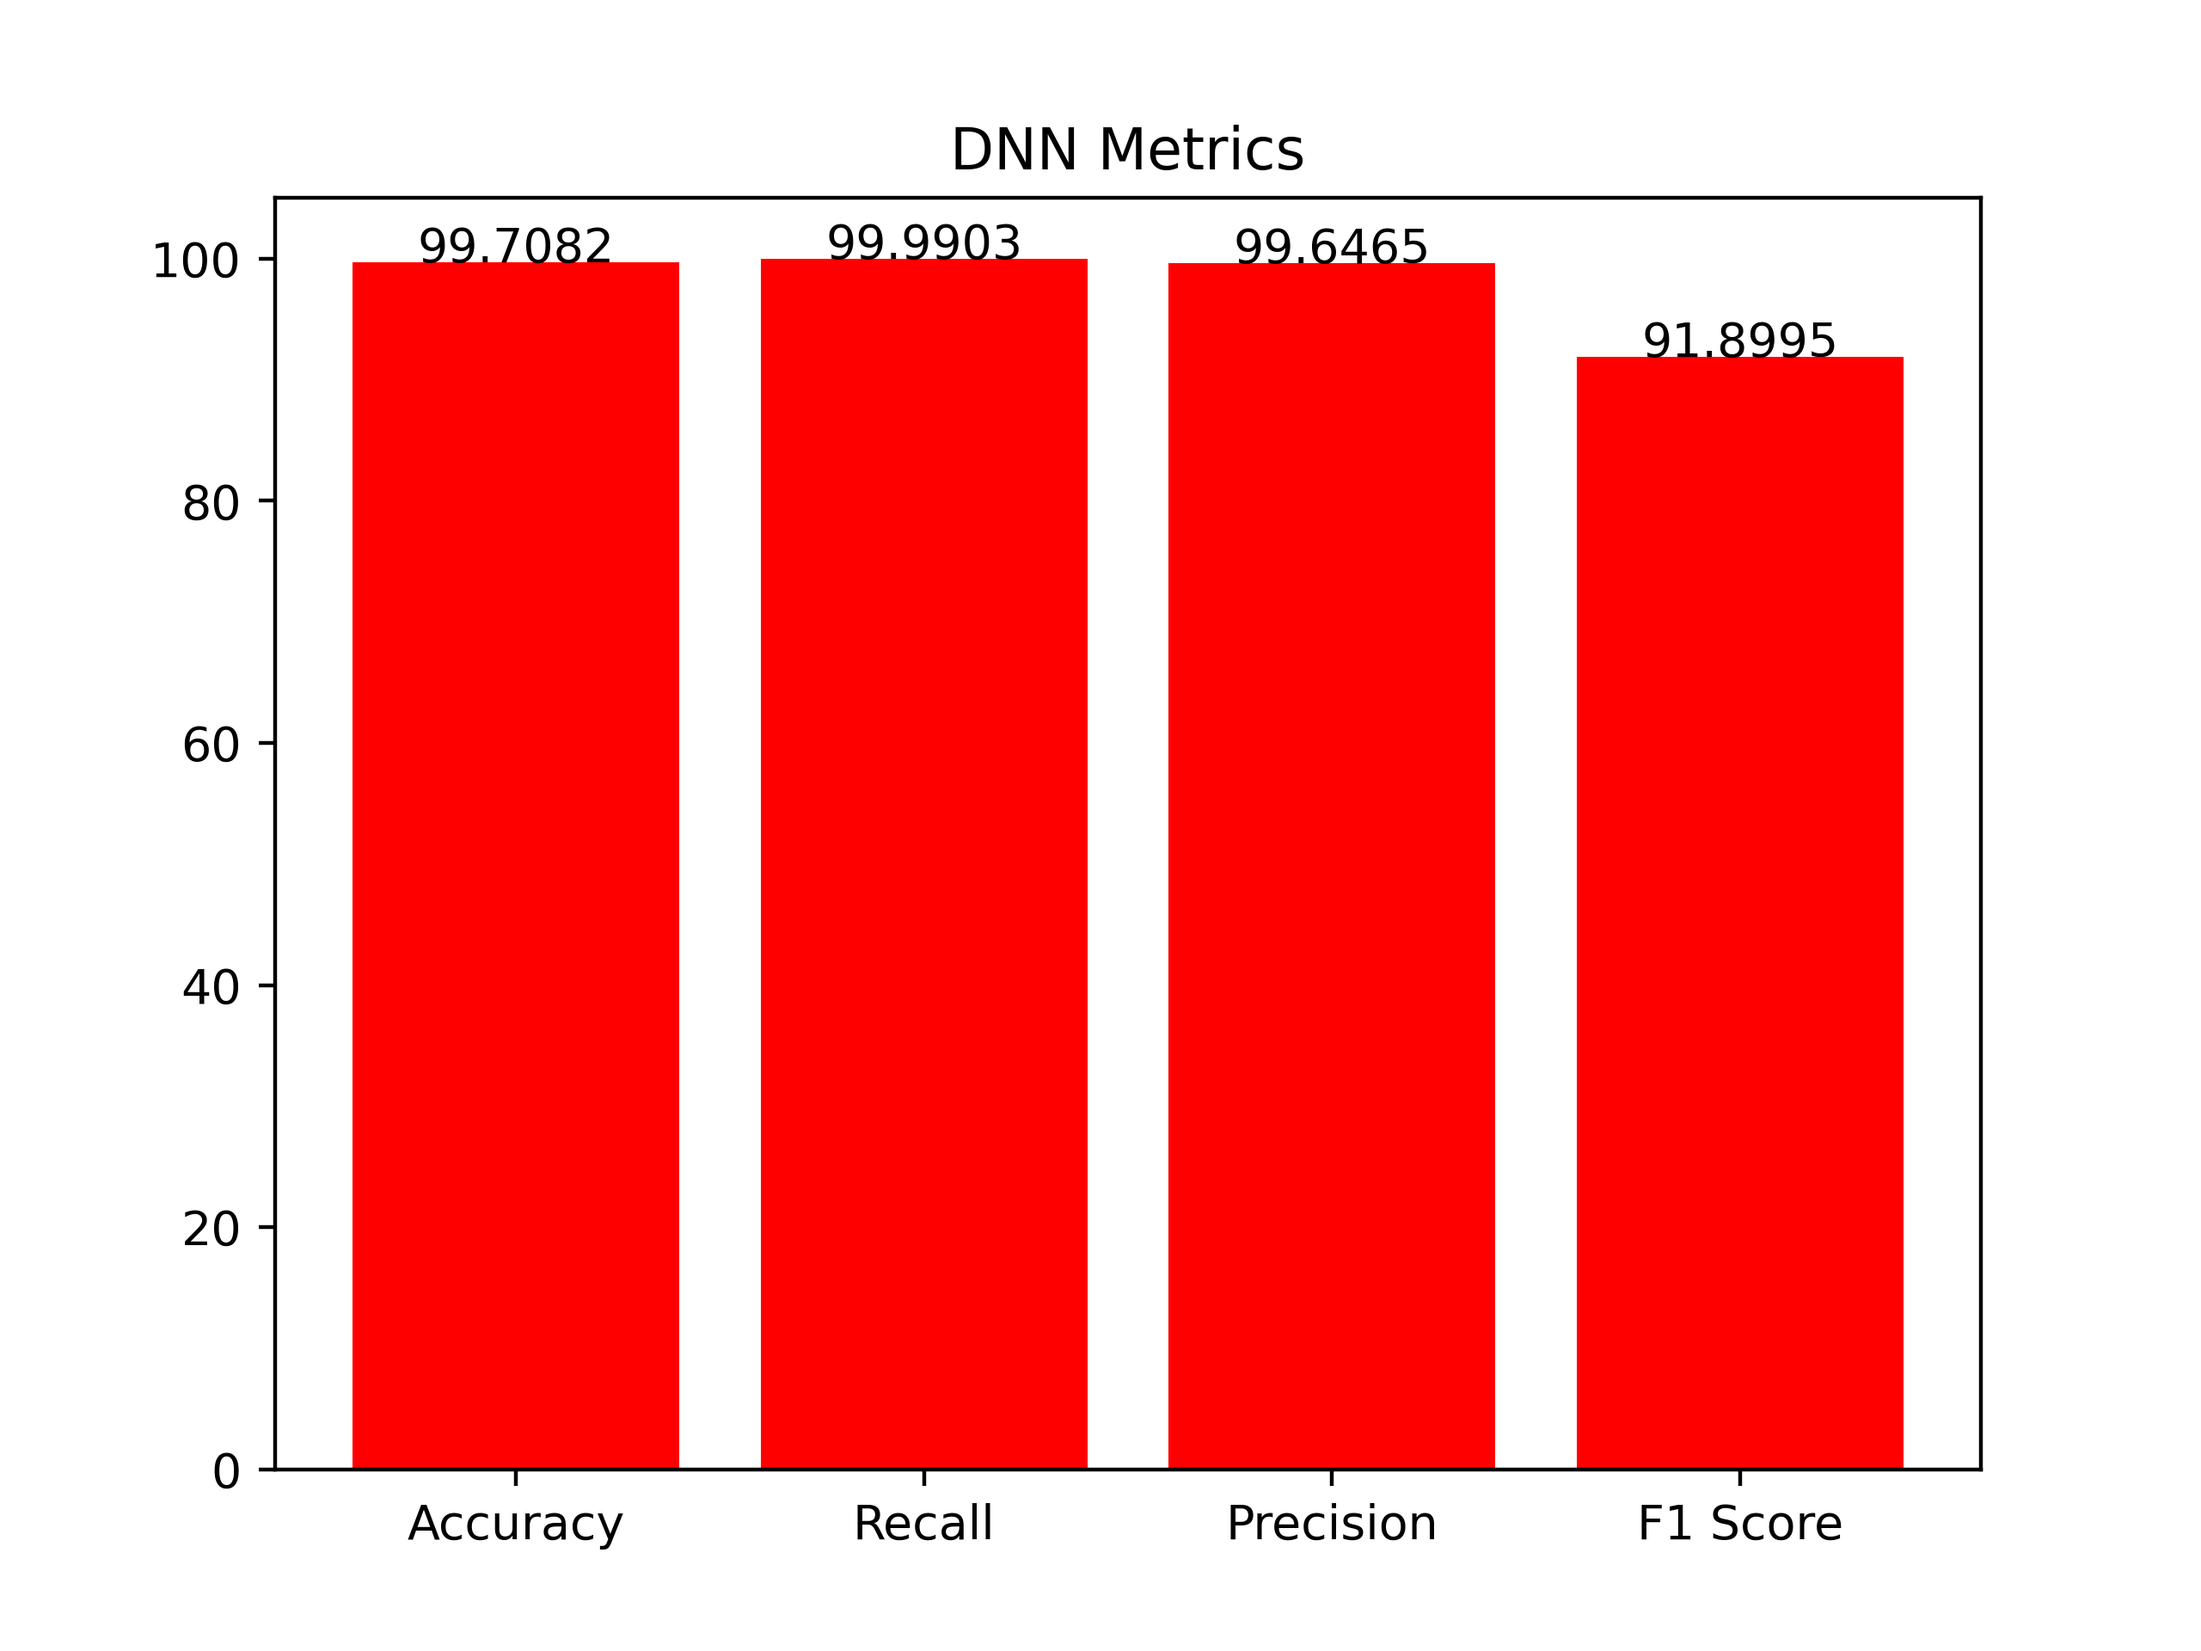
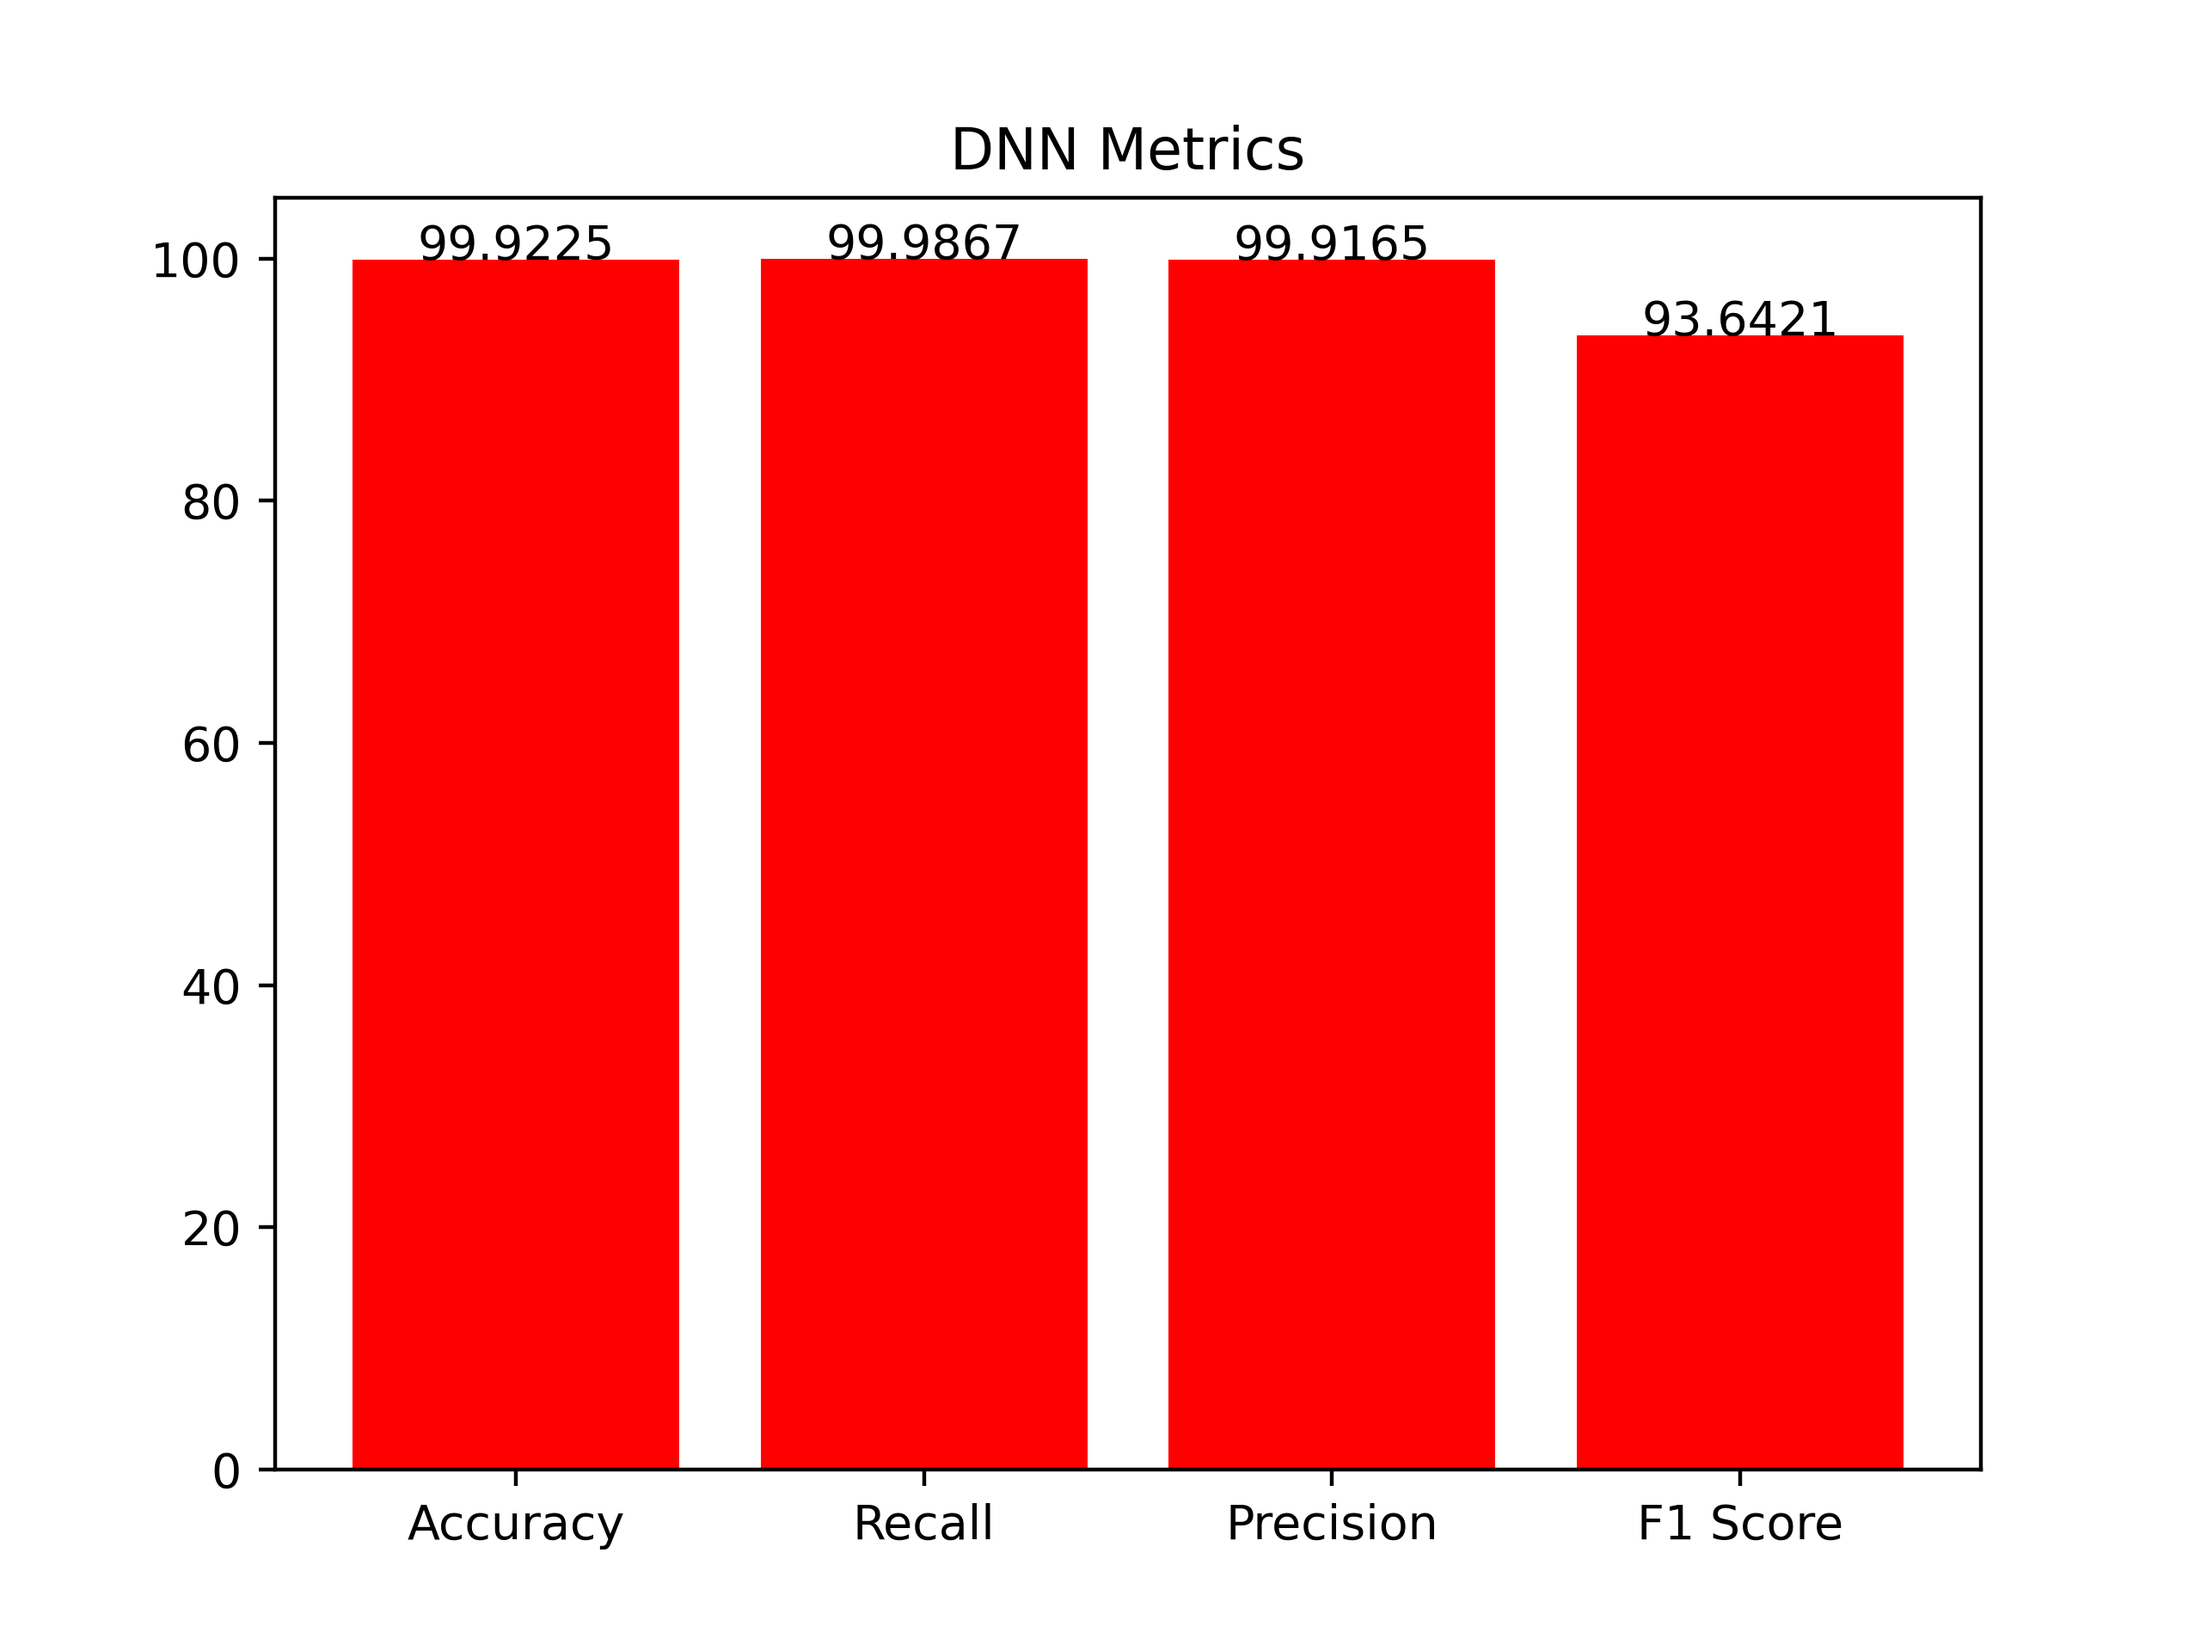
update graphs to reflect dnn optimizaton

diff --git a/DL/CNN/cnnMain.py b/DL/CNN/cnnMain.py
@@ -36,17 +36,17 @@ def model_build(input_shape):
     model = Sequential()
     model.add(Conv1D(filters=64, kernel_size=3, activation="relu", padding="same", input_shape=(input_shape)))
     model.add(MaxPooling1D(pool_size=1))
-    model.add(Dropout(0,5))
+    model.add(Dropout(0,3))
 
 
     model.add(Conv1D(filters=128, kernel_size=3, activation="relu", padding="same"))
     model.add(MaxPooling1D(pool_size=1))
-    model.add(Dropout(0,5))
+    model.add(Dropout(0,3))
 
 
     model.add(Conv1D(filters=256, kernel_size=3, activation="relu", padding="same"))
     model.add(MaxPooling1D(pool_size=1))
-    model.add(Dropout(0,5))
+    model.add(Dropout(0,3))
 
 
     model.add(Flatten())
@@ -106,7 +106,7 @@ metrics_obj = {
 
 # write metrics to file
 
-with open("./DL/CNN/optimizedMetrics.json", "w") as json_file:
+with open("./DL/CNN/optimizedMetricsWithDropout.json", "w") as json_file:
     json.dump(metrics_obj, json_file, indent=4)
 
 print("Metrics written to file in folder")

diff --git a/Metrics/Graphs/classifierGraphs.py b/Metrics/Graphs/classifierGraphs.py
@@ -57,7 +57,7 @@ create_simple_bar_graph(x=x_rf, y=y_rf, value_labels=True, colour="Red", title="
 
 # DNN
 
-with open("DL/DNN/metrics.json", 'r') as file:
+with open("DL/DNN/metricsWithDropout.json", 'r') as file:
     dnn_data = json.load(file)
 
 # removing training time from json
